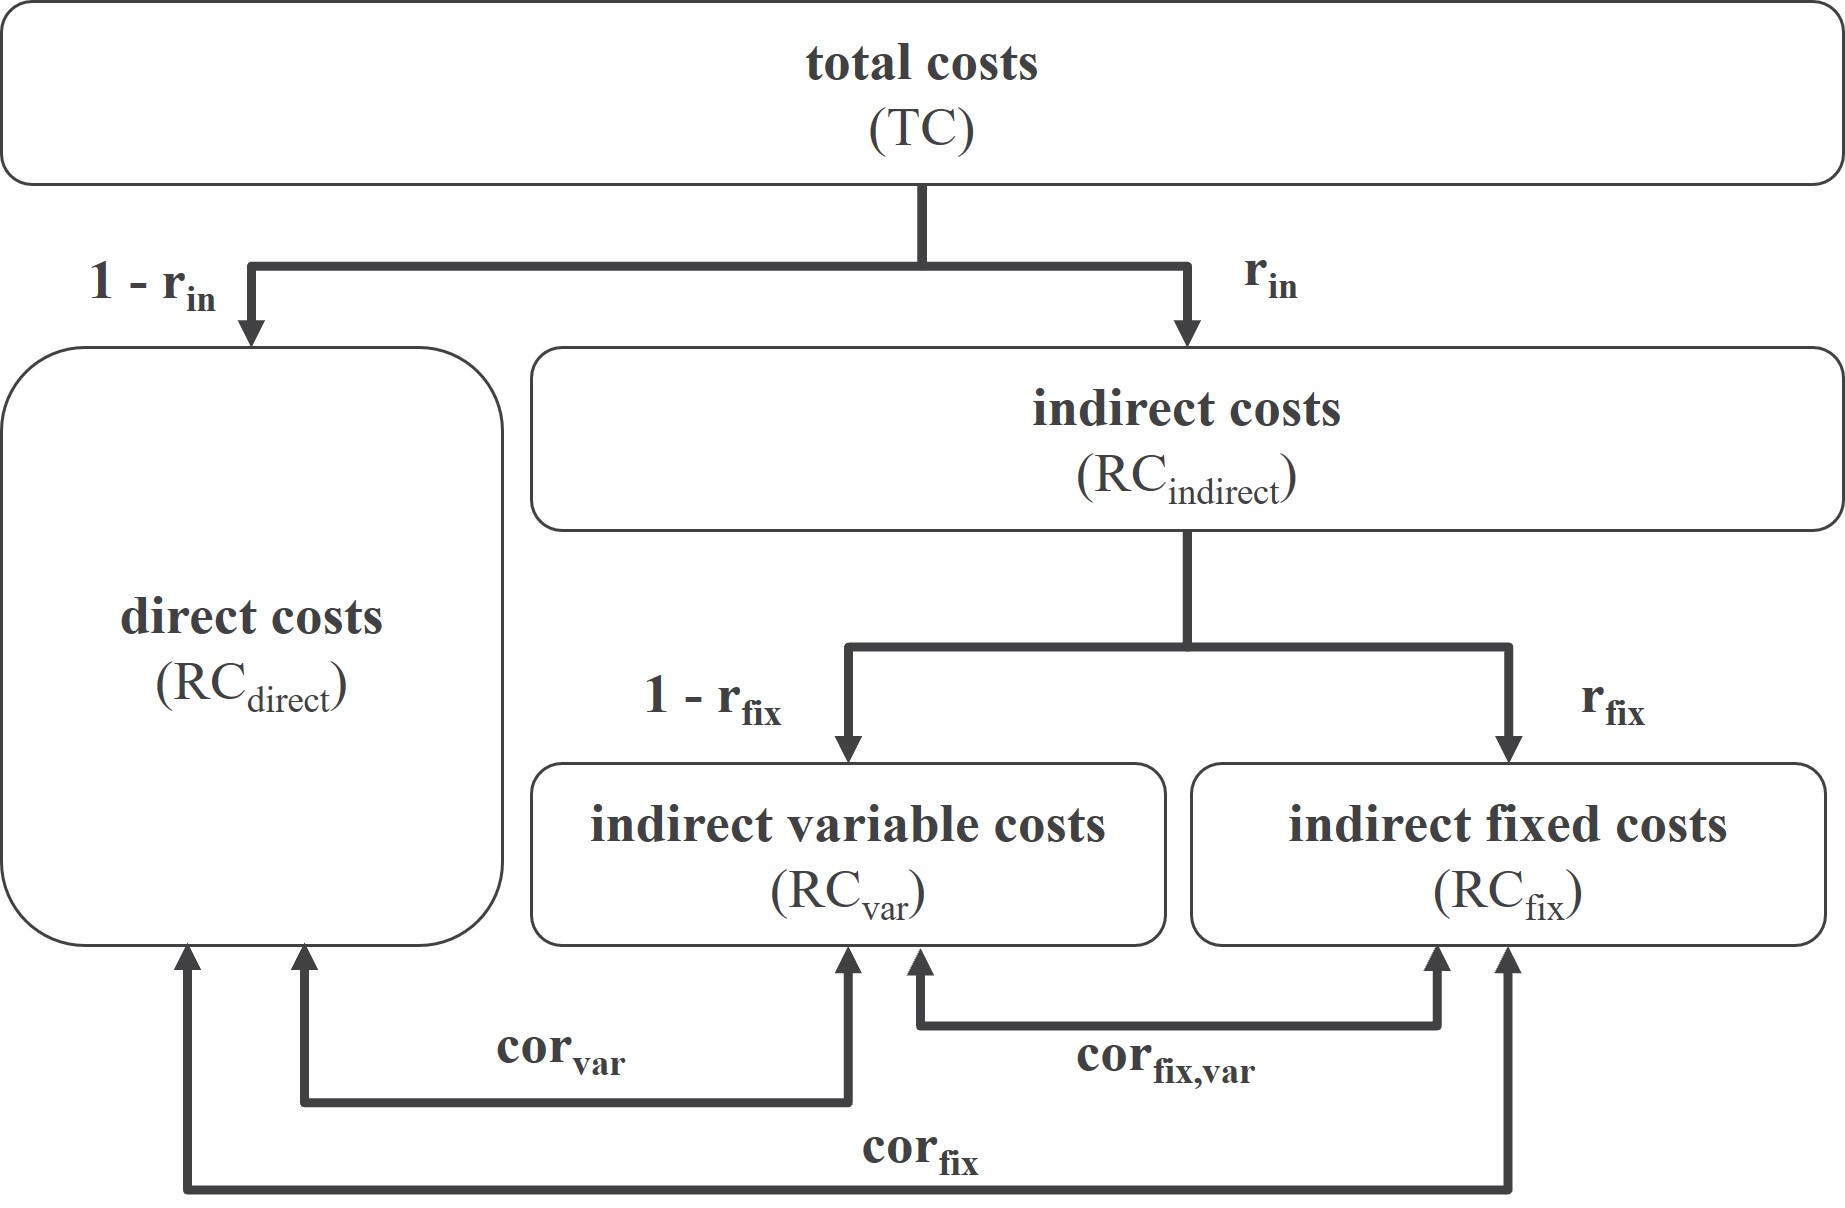
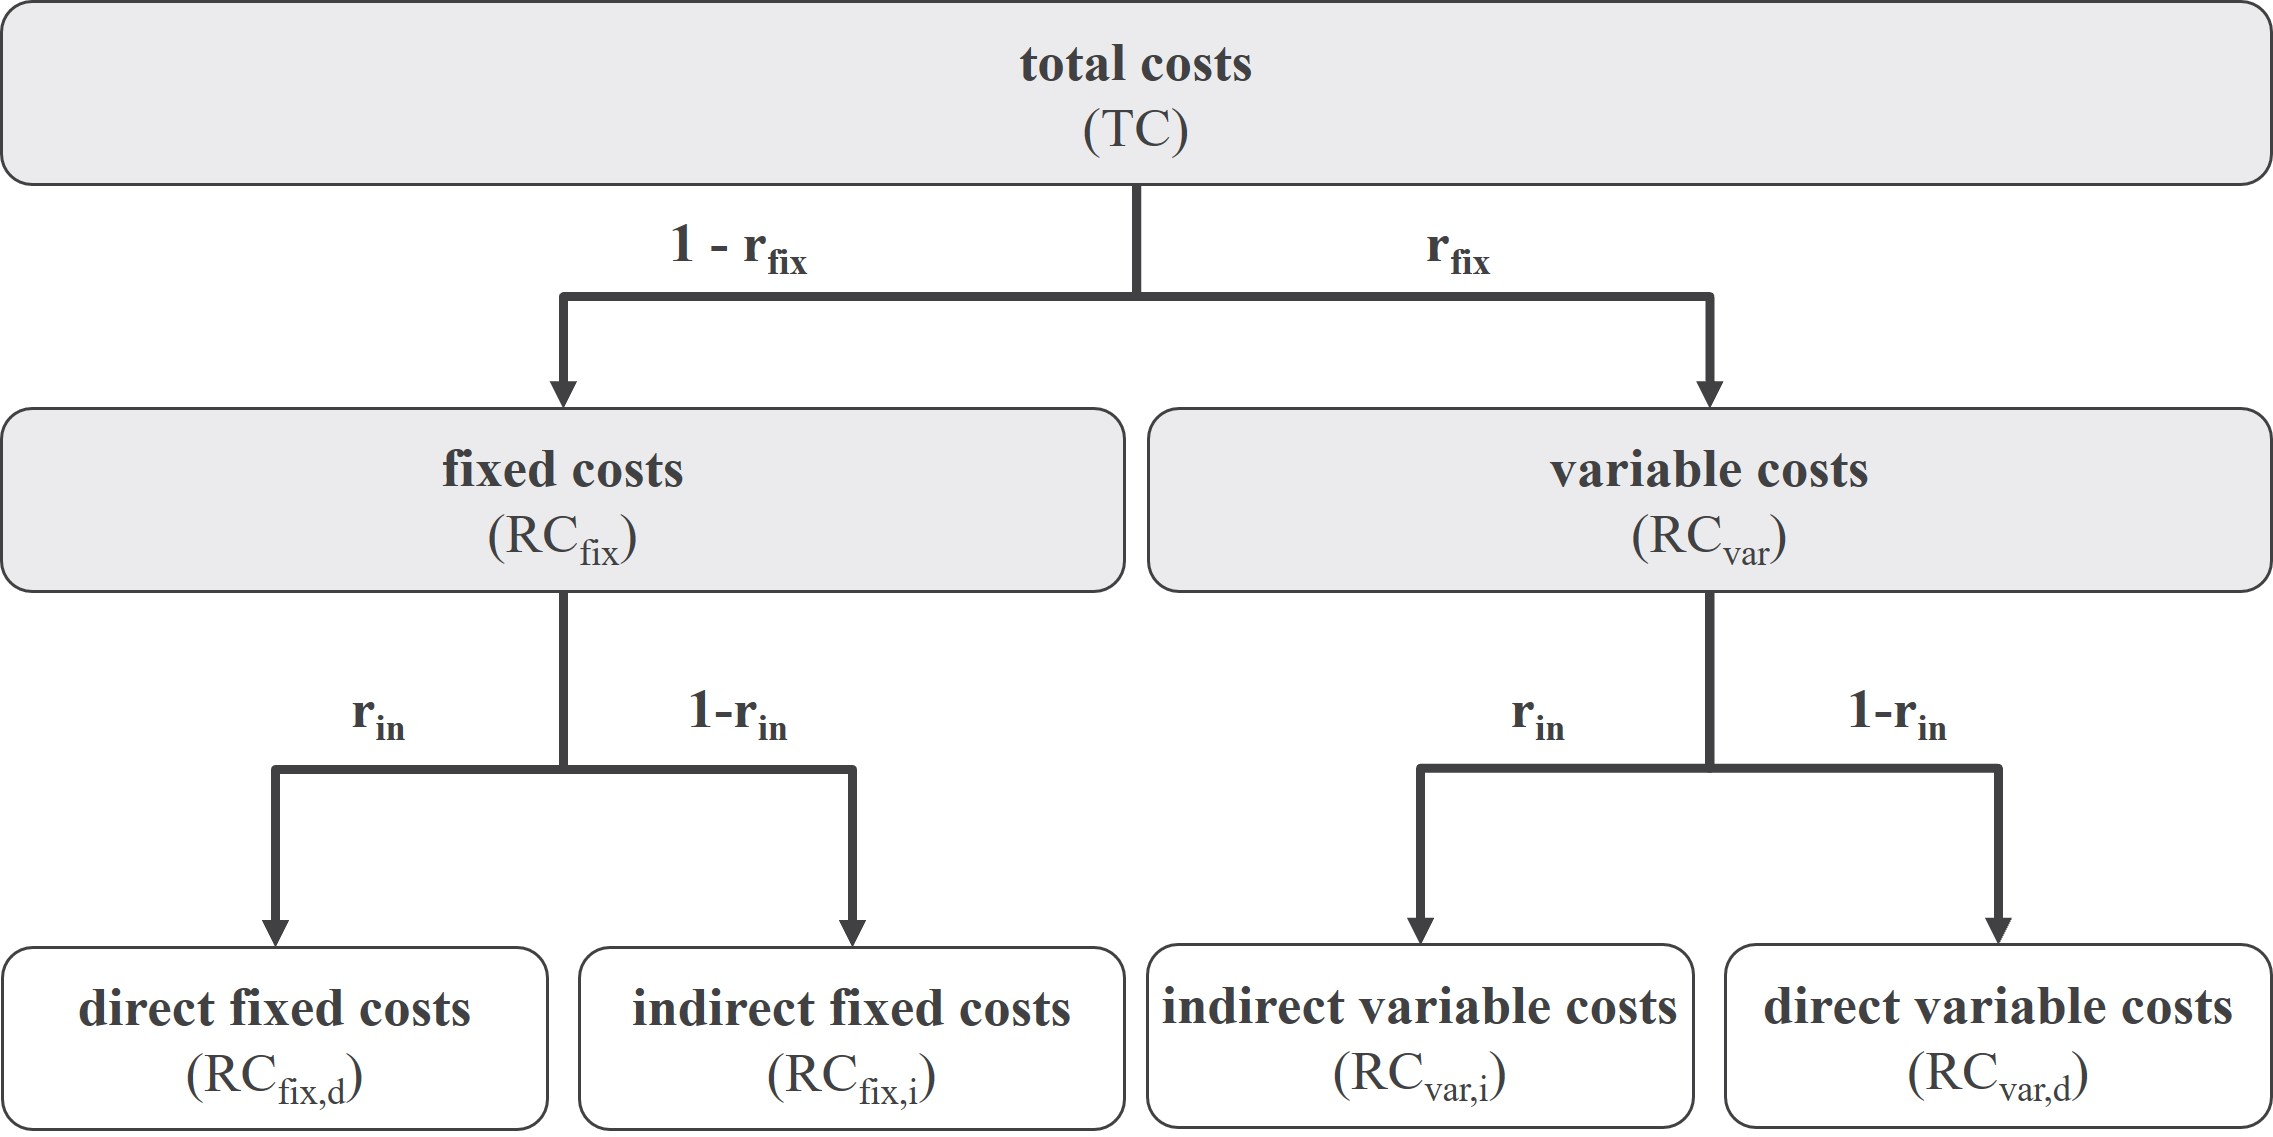
added fixed direct costs

diff --git a/README.md b/README.md
@@ -77,7 +77,7 @@ Third, define a design of experiment (DoE). For each
                    TC = 10^6, # total costs
                    r_in = list(c(0,0.9)),
                    r_fix = list(c(0,1)), # proportion of fixed costs on total costs
-                   RC_cv = list(c(0,1)), # skewness of resource costs
+                   RC_sdlog = list(c(0.1,2)), # skewness of resource costs
                    N_RUN = 1:100 # number of runs
                     )
 ```
@@ -109,18 +109,13 @@ design.
 
 ``` r
 # variable indirect costs and the direct costs which are always variable are summed up
-TC <- sum(EAD[[1]][[1]]$RC$var + EAD[[1]][[1]]$RC$direct + EAD[[1]][[1]]$RC$fix)
 costs<- clc_PCB(RES_CONS_PAT = EAD[[1]][[1]]$P$RD,
                 DMD = EAD[[1]][[1]]$DEMAND,
-                RC_direct = EAD[[1]][[1]]$RC$direct,
-                RC_var = EAD[[1]][[1]]$RC$var,
-                RC_fix = EAD[[1]][[1]]$RC$fix)
+                RC_var = EAD[[1]][[1]]$RC$var_i + EAD[[1]][[1]]$RC$var_d,
+                RC_fix = EAD[[1]][[1]]$RC$fix_i + EAD[[1]][[1]]$RC$fix_d)
 
 ## the product costs multiplied by the demand equals the total costs
 sum(costs$PC_B*EAD[[1]][[1]]$DEMAND)
-#> [1] 1e+06
-
-TC
 #> [1] 1e+06
 ```
 
@@ -129,9 +124,10 @@ To access the total product costs use the following arguments:
 ``` r
 ## total product costs
 costs$PC_B
-#>  [1] 187.43833 269.10613 190.56710 236.15780  55.02643 101.85794 175.45651
-#>  [8] 132.41190 168.04365 298.89622  62.31939 238.61014 175.33661 190.52528
-#> [15] 113.81355 234.76031 150.99644 129.47386 189.47163 190.94431 158.04858
+#>  [1] 446.70642 681.04569 225.31326 616.12150 531.15134 318.79079 359.19526
+#>  [8] 140.18669 253.81275 436.46515 489.82912 445.58026 226.04489 124.85598
+#> [15] 531.87617 542.11744 466.95197 171.22446 147.42956  52.01854 584.50852
+#> [22] 614.68510 392.08401
 ```
 
 For the indirect benchmark costs use:
@@ -139,9 +135,10 @@ For the indirect benchmark costs use:
 ``` r
 ## indirect benchmark product costs
 costs$PC_B_indirect
-#>  [1]  73.01403 104.90440  73.89295  92.04684  21.36814  39.84188  68.46384
-#>  [8]  51.64589  65.25070 116.39438  24.32963  92.73272  68.21220  74.35375
-#> [15]  44.32725  91.66726  58.89260  50.61336  73.68200  74.37165  61.64075
+#>  [1] 446.70642 681.04569 225.31326 616.12150 531.15134 318.79079 359.19526
+#>  [8] 140.18669 253.81275 436.46515 489.82912 445.58026 226.04489 124.85598
+#> [15] 531.87617 542.11744 466.95197 171.22446 147.42956  52.01854 584.50852
+#> [22] 614.68510 392.08401
 ```
 
 If the product mix (available products) or the demand varies, the costs
@@ -153,14 +150,13 @@ DMD<-EAD[[1]][[1]]$DEMAND
 DMD[1:10]<-0
 costs_reduced<-clc_PCB(RES_CONS_PAT = EAD[[1]][[1]]$P$RD,
                DMD = DMD,
-               RC_direct = EAD[[1]][[1]]$RC$direct,
-               RC_fix = EAD[[1]][[1]]$RC$fix,
-               RCU=costs$RCU)
+               RC_fix = EAD[[1]][[1]]$RC$fix_i +  EAD[[1]][[1]]$RC$fix_d,
+               RCU = costs$RCU)
 
 PC_B_reduced<-costs_reduced$PC_B
 
 ## compare the differences
-costs<- data.frame(DMD_f = EAD[[1]][[1]]$DEMAND,
+summary<- data.frame(DMD_f = EAD[[1]][[1]]$DEMAND,
                    DMD_r = DMD,
                    PC_B_f = costs$PC_B,
                    PC_B_r = costs_reduced$PC_B,
@@ -169,7 +165,31 @@ costs<- data.frame(DMD_f = EAD[[1]][[1]]$DEMAND,
                    PC_fix_f = costs$PC_B_fixed,
                    PC_fix_r = costs_reduced$PC_B_fixed)
 
-head(costs)
+summary
+#>    DMD_f DMD_r    PC_B_f    PC_B_r  PC_var_f  PC_var_r  PC_fix_f  PC_fix_r
+#> 1     20     0 446.70642   0.00000 408.40110   0.00000 38.305316   0.00000
+#> 2    103     0 681.04569   0.00000 626.18423   0.00000 54.861458   0.00000
+#> 3     47     0 225.31326   0.00000 207.29953   0.00000 18.013733   0.00000
+#> 4    191     0 616.12150   0.00000 568.28894   0.00000 47.832557   0.00000
+#> 5    422     0 531.15134   0.00000 490.21444   0.00000 40.936908   0.00000
+#> 6    293     0 318.79079   0.00000 293.17806   0.00000 25.612731   0.00000
+#> 7      7     0 359.19526   0.00000 329.56122   0.00000 29.634032   0.00000
+#> 8    271     0 140.18669   0.00000 130.08119   0.00000 10.105501   0.00000
+#> 9     12     0 253.81275   0.00000 231.38385   0.00000 22.428899   0.00000
+#> 10   222     0 436.46515   0.00000 400.64155   0.00000 35.823600   0.00000
+#> 11    13    13 489.82912 576.14027 450.49423 450.49423 39.334887 125.64604
+#> 12   138   138 445.58026 516.32090 406.68764 406.68764 38.892623 109.63326
+#> 13    17    17 226.04489 260.74770 208.54303 208.54303 17.501854  52.20467
+#> 14    31    31 124.85598 146.27844 111.77809 111.77809 13.077891  34.50035
+#> 15    27    27 531.87617 614.22797 488.25157 488.25157 43.624600 125.97640
+#> 16     4     4 542.11744 628.49091 496.01112 496.01112 46.106316 132.47978
+#> 17     8     8 466.95197 536.84994 430.35627 430.35627 36.595699 106.49367
+#> 18   460   460 171.22446 193.76936 159.40971 159.40971 11.814754  34.35965
+#> 19    16    16 147.42956 170.46955 135.93471 135.93471 11.494847  34.53484
+#> 20   117   117  52.01854  59.26326  48.32469  48.32469  3.693847  10.93857
+#> 21    58    58 584.50852 685.43503 536.86075 536.86075 47.647765 148.57428
+#> 22    99    99 614.68510 722.41871 562.27233 562.27233 52.412778 160.14639
+#> 23   145   145 392.08401 453.97818 358.64034 358.64034 33.443670  95.33785
 ```
 
 # Full Documentation
